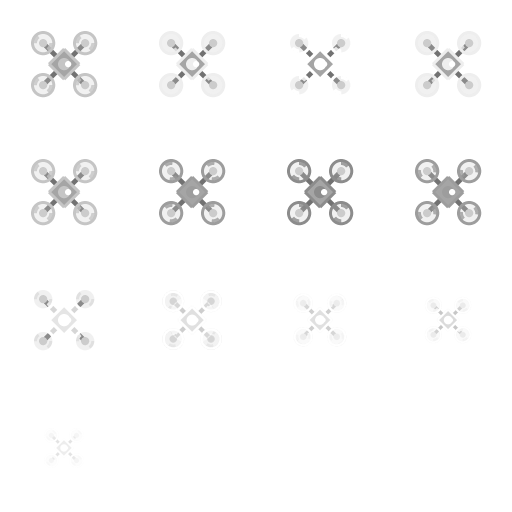
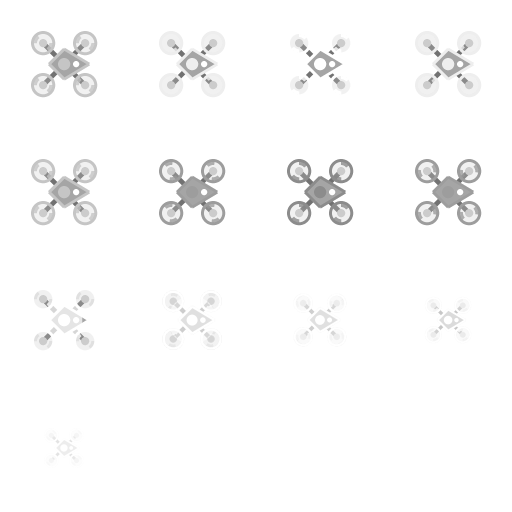
enemies face their heading; poison patches read as poison (D186/D187)
D186: EnemySeekSystem writes a Rotation from the velocity it just
steered (pure rotation, flip_when_left=false, render-only), so every
enemy's +X front — dart nose, clamp jaws, gun barrel — points where it
flies, the way the moon's mouth points at its aim (D109). Shooters'
later aim-facing writes still win the frame. The scout's hub gains a
stretched nose in make_sprites so it has a front worth pointing.

D187: the Bio-lab poison patch wears a new blotchy vapour sprite —
sickly green lobes and bubbles over a red warning rim — instead of the
flat green Color rect, which stays as the load fallback. Fixed blob
layout, no RNG anywhere; sprites regenerated offline, only
enemy_spark.png changed plus the new hazard_poison.png (generator is
byte-stable on everything untouched).

diff --git a/assets/generator/v2/make_sprites.py b/assets/generator/v2/make_sprites.py
@@ -473,10 +473,12 @@ def spark_shape(f, pal, col, b, t):
     pods = [(cx+21, cy-21), (cx+21, cy+21), (cx-21, cy-21), (cx-21, cy+21)]
     quad_pods(f, pal, col, b, t, pods, 12, (cx, cy), 5)
     r = 15
-    neon_poly(f, [(cx+r, cy), (cx, cy-r), (cx-r, cy), (cx, cy+r)],
+    # D186: the hub is a dart, not a diamond — a stretched +X nose so the scout
+    # has a front face now that every enemy rotates to its heading.
+    neon_poly(f, [(cx+r+10, cy), (cx, cy-r), (cx-r, cy), (cx, cy+r)],
               scale_col(col, 0.65), outline=scale_col(pal.accent, b), ow=3)
     dot(f, (cx, cy), 6, scale_col(pal.accent, b))
-    dot(f, (cx+4, cy), 3, (255, 255, 255))
+    dot(f, (cx+12, cy), 3, (255, 255, 255))
 
 
 def runner_shape(f, pal, col, b, t):
@@ -761,6 +763,30 @@ def coin_sprite():
     return add_halo(f, (255, 210, 90), spread=0.14, strength=150)
 
 
+def poison_cloud():
+    """Bio-lab poison patch (D187): a blotchy vapour cloud instead of a flat
+    green square. Sickly green blobs over a RED rim — the rim is the danger
+    signal, painted as slightly larger red blobs underneath so it hugs the
+    cloud's own lumpy silhouette. Fixed blob layout, no randomness."""
+    f = _pickup_frame()
+    d = draw(f, 1)
+    c = P/2
+    # (dx, dy, r) lobes of the cloud, biggest in the middle
+    lobes = [(0, 0, 30), (-20, -8, 20), (19, -10, 18), (-12, 16, 17),
+             (15, 14, 16), (0, -20, 15)]
+    for dx, dy, r in lobes:            # red warning rim
+        d.ellipse([c+dx-r-5, c+dy-r-5, c+dx+r+5, c+dy+r+5], fill=(230, 40, 30, 235))
+    for dx, dy, r in lobes:            # poison body
+        d.ellipse([c+dx-r, c+dy-r, c+dx+r, c+dy+r], fill=(70, 150, 45, 235))
+    for dx, dy, r in lobes:            # brighter inner vapour
+        d.ellipse([c+dx-r*0.55, c+dy-r*0.55, c+dx+r*0.55, c+dy+r*0.55],
+                  fill=(120, 235, 90, 210))
+    # bubbles: the classic toxic read
+    for bx, by, br in [(-10, -6, 5), (8, 4, 4), (-2, 14, 3), (14, -12, 3)]:
+        d.ellipse([c+bx-br, c+by-br, c+bx+br, c+by+br], fill=(190, 255, 150, 230))
+    return add_halo(f, (120, 235, 90), spread=0.18, strength=140)
+
+
 def mine_sprite():
     """Foundry mine: the bomb-emoji read — round dark body, cap, curved fuse, lit
     spark. The body is dark so the hot orange rim and the spark carry it against
@@ -919,6 +945,7 @@ def main():
     save_png("pickup_shield", shield_pickup())
     save_png("pickup_coin", coin_sprite())
     save_png("hazard_mine", mine_sprite())
+    save_png("hazard_poison", poison_cloud())
     # D105: the boss's carrier. Single frame, worn as Images by BossSystem.
     save_png("enemy_boss_carrier", carrier_sprite())
     # D133: the upgrade kit. Single-frame overlays worn as Images by the kit

diff --git a/CPP/game/enemy_seek_system.cpp b/CPP/game/enemy_seek_system.cpp
@@ -32,6 +32,22 @@ void steer_toward(Velocity& vel, float ex, float ey, float tx, float ty, float s
         vel.dy = dy / dist * speed;
     }
 }
+
+// D186: every enemy faces its travel direction, the way the moon faces its aim
+// (D109). All v2 enemy art carries a +X front (dart nose, clamp jaws, barrel);
+// without a Rotation it rendered pointing right forever. Pure rotation
+// (flip_when_left = false), render-only, written from the velocity just
+// steered — a stationary enemy keeps its last heading rather than snapping to 0.
+// Shooters overwrite this later in the frame with their aim (enemy_fire,
+// specialty), which is the better face for a thing that is firing at you.
+void face_velocity(ComponentStorage& storage, Entity e, const Velocity& vel) {
+    if (vel.dx == 0.0f && vel.dy == 0.0f) return;
+    const float ang = std::atan2(vel.dy, vel.dx);
+    if (auto rot = storage.get_component<Rotation>(e); rot.has_value())
+        rot->get().angle = ang;
+    else
+        storage.add_component<Rotation>(e, Rotation{ang, 0.0f, false});
+}
 } // namespace
 
 void EnemySeekSystem::update(ComponentStorage& storage, Blackboard& blackboard) {
@@ -70,6 +86,7 @@ void EnemySeekSystem::update(ComponentStorage& storage, Blackboard& blackboard) 
         if (!have_grid ||
             enemy_path::line_of_sight_clear(ex, ey, px, py, *obstacles_, radius)) {
             steer_toward(vel, ex, ey, px, py, speed);
+            face_velocity(storage, enemy, vel);
             pf.repath_timer = 0.0f;
             continue;
         }
@@ -94,5 +111,6 @@ void EnemySeekSystem::update(ComponentStorage& storage, Blackboard& blackboard) 
         }
 
         steer_toward(vel, ex, ey, pf.target_x, pf.target_y, speed);
+        face_velocity(storage, enemy, vel);
     }
 }

diff --git a/CPP/game/specialty_system.cpp b/CPP/game/specialty_system.cpp
@@ -58,6 +58,9 @@ void SpecialtySystem::update(ComponentStorage& storage, EntityManager& entity_ma
             const EnemyType* t = enemy_fire::type_for(cfg_, behavior_kinds::SPITTER, beh.tier);
             spec.damage = t != nullptr ? t->shot_damage : 9.0f;
             if (beh.tier >= 2) { spec.lifetime *= 1.6f; spec.size *= 1.2f; }
+            // D187: the patch wears the blotchy red-rimmed cloud instead of the
+            // flat Color rect (which stays underneath as the load fallback).
+            spec.image = "v2/hazard_poison.png";
             hazard::spawn_patch(storage, entity_manager, cx, cy, spec);
             break;
         }
